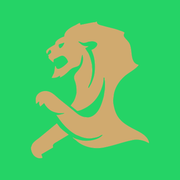
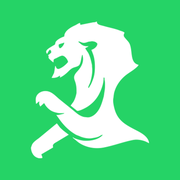
Leão branco no ícone da aba, para aparecer melhor no verde
Claude-Session: https://claude.ai/code/session_01NRnWzsuxN8sPcXDh4gb8Xx

Changed region(s): [[0.1667, 0.1111, 0.8333, 0.8889]]

diff --git a/index.html b/index.html
@@ -9,7 +9,7 @@
     <!-- Modo escuro (D-107) antes do primeiro desenho, para a tela não piscar clara. Arquivo próprio: a CSP não
          aceita script embutido. -->
     <script src="/tema-inicial.js"></script>
-    <!-- Ícone da aba: leão da Castelo Branco no verde do WhatsApp -->
+    <!-- Ícone da aba: leão da Castelo Branco, em branco, no verde do WhatsApp -->
     <link rel="icon" type="image/png" sizes="64x64" href="/favicon.png" />
     <link rel="icon" type="image/png" sizes="32x32" href="/favicon-32.png" />
     <link rel="apple-touch-icon" href="/apple-touch-icon.png" />
